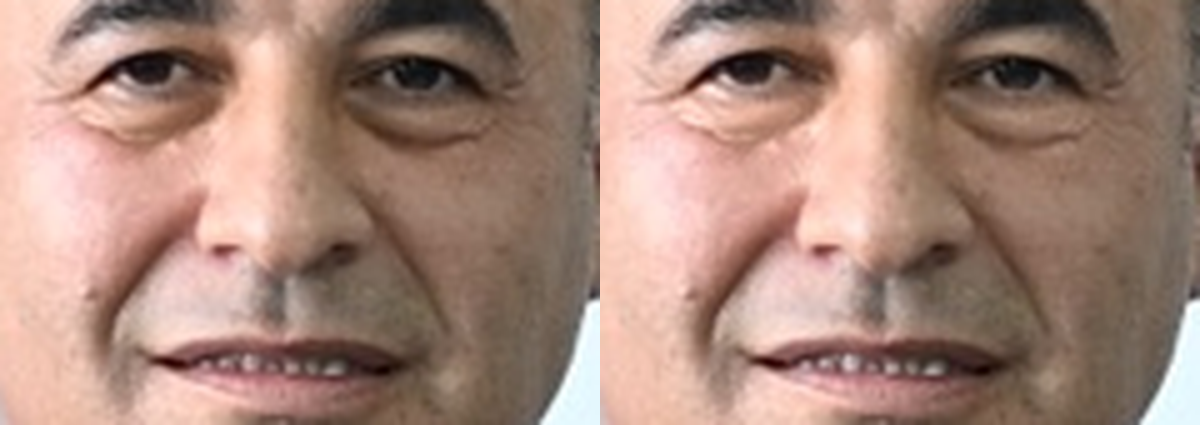
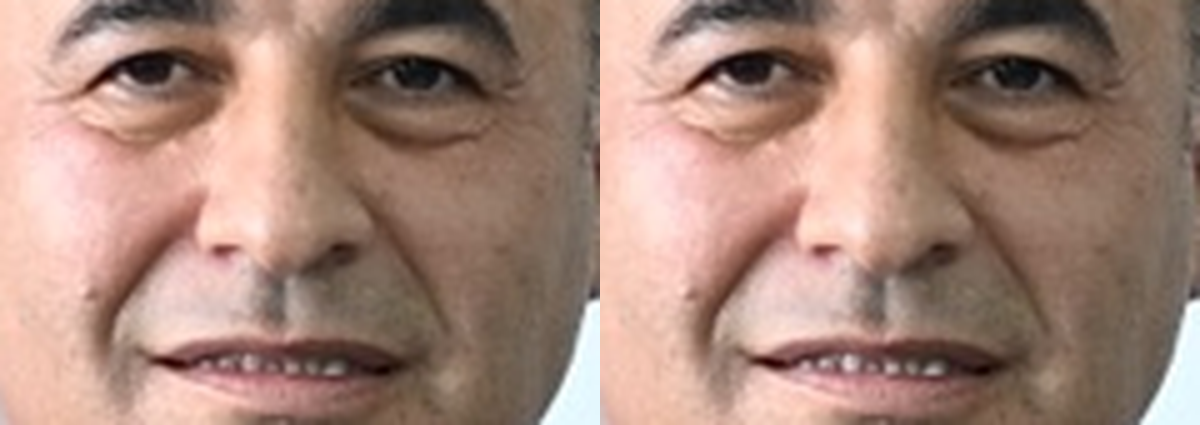
Dilaver fotoğrafı: göz altı rötuşu geri alındı, sadece diş beyazlatma
Claude-Session: https://claude.ai/code/session_01SatttGbgBLoCnk9KGLypWv

Changed region(s): [[0.5858, 0.1835, 0.7092, 0.3365], [0.8017, 0.2447, 0.8325, 0.3059]]

diff --git a/tasarim/kisisel/foto-iyilestir/dilaver-il/rotus.py b/tasarim/kisisel/foto-iyilestir/dilaver-il/rotus.py
@@ -16,15 +16,16 @@ gm=np.maximum(elips(1159,640,17,7.5,2.2),elips(1215,640,20,7.5,2.2))
 low=nd.gaussian_filter(L,3)
 ref=np.roll(nd.gaussian_filter(L,5),-11,axis=0)    # 11 px aşağıdaki yanak
 kald=np.clip(ref-low,0,None)*0.8*gm
-lab[...,0]+=kald
+# göz altı rötuşu kapalı (Buğra istemedi)
+# lab[...,0]+=kald
 ab_low=nd.gaussian_filter(lab[...,1:],(3,3,0)); ab_ref=np.roll(nd.gaussian_filter(lab[...,1:],(5,5,0)),-11,axis=0)
-lab[...,1:]+=(ab_ref-ab_low)*0.45*gm[...,None]
+# lab[...,1:]+=(ab_ref-ab_low)*0.45*gm[...,None]
 # dişler: ağız içi, açık ve düşük doygun pikseller
 am=elips(1184,687.5,19,3.2,0.8)
 C=np.hypot(lab[...,1],lab[...,2])
 dm=am*np.clip((L-42)/10,0,1)*np.clip((30-C)/10,0,1)
 dm=nd.gaussian_filter(dm,0.7)
-lab[...,0]+=10*dm; lab[...,2]*=1-0.65*dm; lab[...,1]*=1-0.35*dm
+lab[...,0]+=14*dm; lab[...,2]*=1-0.75*dm; lab[...,1]*=1-0.35*dm
 out=np.clip(lab2rgb(lab),0,1)*255
 B=A.copy(); B[Y0:Y1,X0:X1]=out
 Image.fromarray(B.round().astype(np.uint8)).save('dilaver-iyilestirilmis.jpg',quality=97,subsampling=0,**({'exif':exif} if exif else {}))
